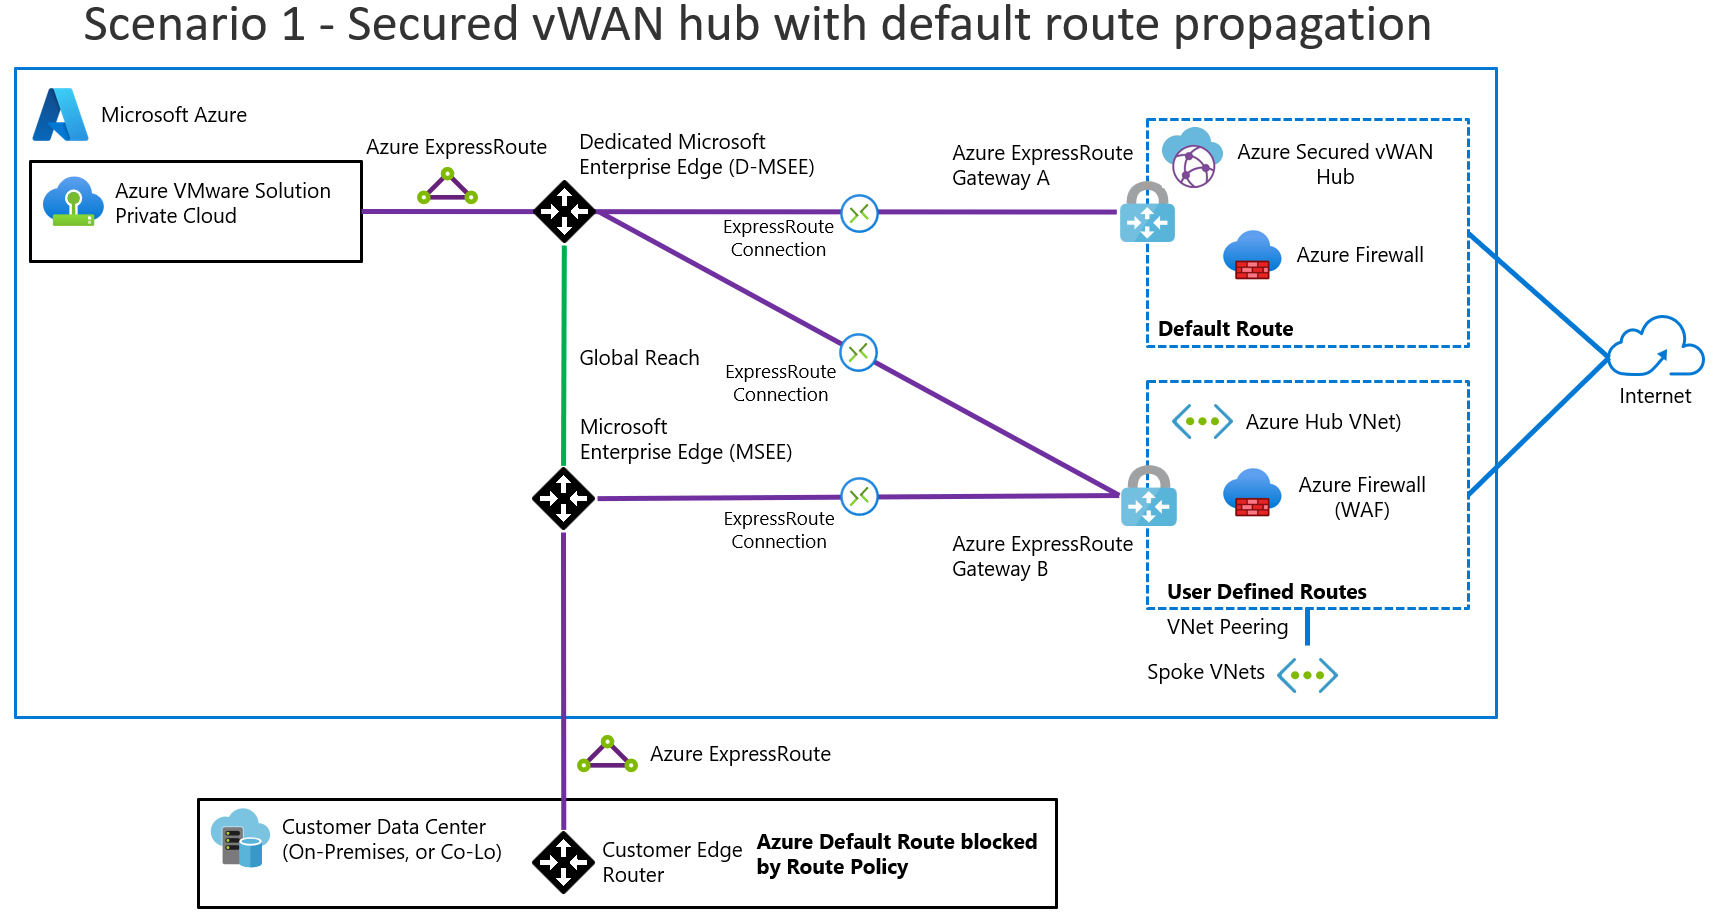
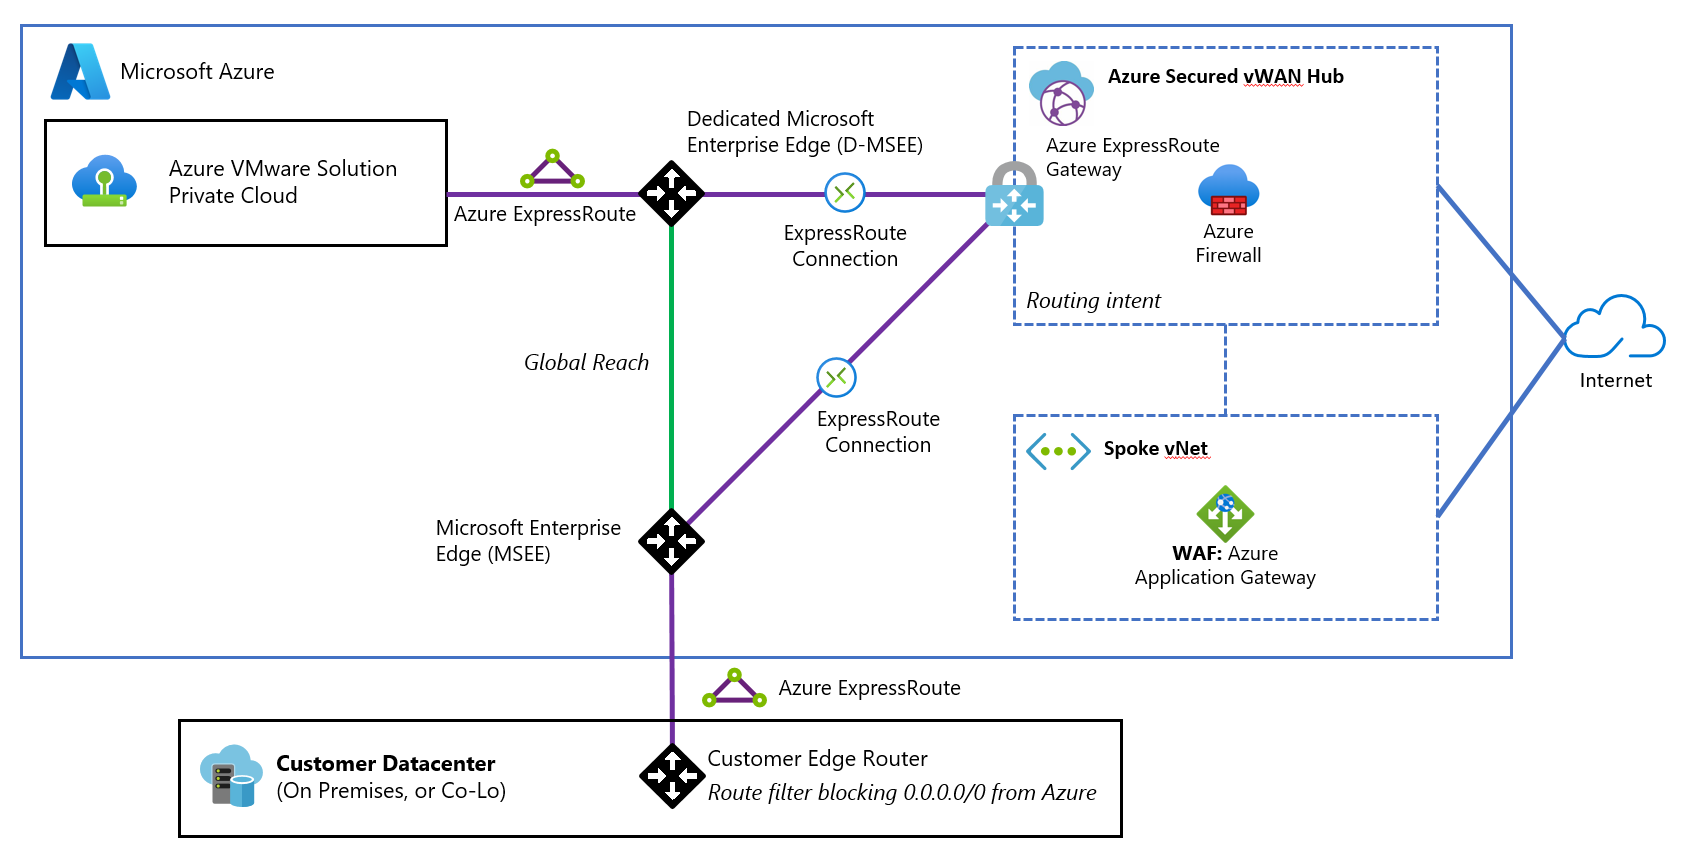
AVS: Review and simplification of example n°1

diff --git a/docs/scenarios/azure-vmware/example-architectures.md b/docs/scenarios/azure-vmware/example-architectures.md
@@ -2,8 +2,8 @@
 title: Enterprise-scale example architectures connectivity to Azure VMware Solution
 description: Examine example for scenarios for implementing networking and connectivity for Azure VMware Solution deployments.
 author: sablair
-ms.author: martinek
-ms.date: 10/27/2023
+ms.author: lrivallain
+ms.date: 11/25/2024
 ms.topic: conceptual
 ms.custom: think-tank, e2e-azure-vmware
 ---
@@ -11,18 +11,16 @@ ms.custom: think-tank, e2e-azure-vmware
 
 # Example architectures for **Azure VMware Solutions**
 
-
-
 To establish an Azure VMware Solution landing zone, you need to first design and implement networking capabilities. Azure networking products and services support a wide variety of networking scenarios. Choose an appropriate architecture and plan for structuring services for your needs by evaluating your organization's workloads, governance, and requirements.
 
 Review the following considerations and key requirements before making your Azure VMware Solution deployment decision.
 
-- HTTP/S or non-HTTP/S internet ingress requirements into Azure VMware Solution applications
+- Internet ingress requirements into Azure VMware Solution applications
 - Internet egress path considerations
-- L2 extension for migrations
-- NVA use in the current architecture
+- Network Layer-2 extension for migrations
+- Network Virtual Appliances (NVA) usage in the current architecture
 - Azure VMware Solution connectivity to either a standard hub virtual network or Virtual WAN hub
-- Private ExpressRoute connectivity from on-premises datacenters to Azure VMware Solution (and if you should enable ExpressRoute Global Reach or not)
+- ExpressRoute connectivity from on-premises datacenters to Azure VMware Solution (and if ExpressRoute Global Reach is suitable to be used or not)
 - Traffic inspection requirements for:
   - Internet ingress into Azure VMware Solution applications
   - Azure VMware Solution egress access to the internet
@@ -33,20 +31,20 @@ Review the following considerations and key requirements before making your Azur
 The following table uses VMware solution traffic inspection requirements to provide recommendations and considerations for the most common networking scenarios.
 
 | Scenario | Traffic inspection requirements | Recommended solution design | Considerations |
-|---|----|---|---|
-| 1 |  - Internet ingress <br> - Internet egress | Use a Virtual WAN secured hub with default gateway propagation. </br></br> For HTTP/S traffic, use Azure Application Gateway. For non-HTTP/S traffic, use Azure Firewall.</br></br> Deploy a secured Virtual WAN hub and enable public IP in Azure VMware Solution. | This solution doesn't work for on-premises filtering. Global Reach bypasses Virtual WAN hubs. |
-| 2 |  - Internet ingress <br> - Internet egress <br> - To on-premises datacenter <br> - To Azure Virtual Network| Use third-party firewall NVA solutions in your hub virtual network with Azure Route Server. </br></br> Disable Global Reach. </br></br> For HTTP/S traffic, use Azure Application Gateway. For non-HTTP/S traffic, use a third-party firewall NVA on Azure.| Choose this option if you want to use your existing NVA and centralize all traffic inspection in your hub virtual network. |
-| 3 | - Internet ingress <br> - Internet egress <br> - To on-premises datacenter <br> - To Azure Virtual Network <br> Within Azure VMware Solution <br>|   Use NSX-T Data Center or a third-party NVA firewall in Azure VMware Solution. </br></br>  Use Application Gateway for HTTPs, or Azure Firewall for non-HTTPs traffic. </br></br> Deploy the secured Virtual WAN hub and enable public IP in Azure VMware Solution.| Choose this option if you need to inspect traffic from two or more Azure VMware Solution private clouds. </br></br> This option lets you use NSX-T native features. You can also combine this option with NVAs running on Azure VMware Solution between L1 and L0. |
-| 4 | - Internet ingress <br> - Internet egress </br> - To on-premises datacenter </br> - To Azure Virtual Network   | </br>  Use third-party firewall solutions in a hub virtual network with Azure Route Server. </br></br> For HTTP & HTTPS traffic, use Azure Application Gateway. For non-HTTP/HTTPS traffic, use a third-party firewall NVA on Azure. </br></br> Use an on-premises third-party firewall NVA. </br></br> Deploy third-party firewall solutions in a hub virtual network with Azure Route Server. | Choose this option to advertise the `0.0.0.0/0` route from an NVA in your Azure hub virtual network to an Azure VMware Solution.|
+|----------|---------------------------------|-----------------------------|----------------|
+| 1        | <ul><li>Internet ingress</li><li>Internet egress</li></ul> | <ul><li>Use a Virtual WAN secured hub with default gateway propagation.</li><li> For HTTP/S traffic, use Azure Application Gateway. For non-HTTP/S traffic, use Azure Firewall.</li><li> Deploy a secured Virtual WAN hub with routing intent. | Use of Global Reach is not effective for on-premises filtering, as it bypasses the Virtual WAN hubs.</li></ul> |
+| 2        | <ul><li>Internet ingress</li><li>Internet egress</li><li>To on-premises datacenter</li><li>To Azure Virtual Network</li></ul> | <ul><li>Use third-party firewall NVA solutions in your hub virtual network with Azure Route Server.</li><li>Ensure not using Global Reach.</li><li>For HTTP/S traffic, use Azure Application Gateway. For non-HTTP/S traffic, use a third-party firewall NVA on Azure.</li></ul> | Choose this option if you want to use your existing NVA and centralize all traffic inspection in your hub virtual network. |
+| 3        | <ul><li>Internet ingress</li><li>Internet egress</li><li>To on-premises datacenter</li><li>To Azure Virtual Network</li><li>Within Azure VMware Solution</li></ul>|<ul><li>Use NSX-T Data Center or a third-party NVA firewall in Azure VMware Solution. </li><li> Use Application Gateway for HTTPs, or Azure Firewall for non-HTTPs traffic. </li><li> Deploy the secured Virtual WAN hub and enable public IP in Azure VMware Solution.</li></ul>| Choose this option if you need to inspect traffic from two or more Azure VMware Solution private clouds. <br><br> This option lets you use NSX-T native features. You can also combine this option with NVAs running on Azure VMware Solution. |
+| 4       | <ul><li>Internet ingress</li><li>Internet egress</li><li>To on-premises datacenter</li><li>To Azure Virtual Network</li></ul>| <ul><li>Use third-party firewall solutions in a hub virtual network with Azure Route Server. </li><li> For HTTP & HTTPS traffic, use Azure Application Gateway. For non-HTTP/HTTPS traffic, use a third-party firewall NVA on Azure. </li><li> Use an on-premises third-party firewall NVA. </li><li> Deploy third-party firewall solutions in a hub virtual network with Azure Route Server. </li></ul>| Choose this option to advertise the `0.0.0.0/0` route from an NVA in your Azure hub virtual network to an Azure VMware Solution.|
 
 Key points about the networking scenarios:
 - All scenarios have similar ingress patterns via Application Gateway and Azure Firewall.
-- You can use L4-L7 load balancer NVAs in Azure VMware Solution.
+- You can use L4-L7 load balancer solutions in Azure VMware Solution.
 - You can use NSX-T Data Center Firewall for any of these scenarios.
 
 The following sections outline architectural patterns for Azure VMware Solution private clouds. This list is not exhaustive. For more information, see [Azure VMware Solution networking and interconnectivity concepts](/azure/azure-vmware/concepts-networking).
 
-## Secured Virtual WAN hub with default route propagation
+## Secured Virtual WAN hub with routing intent
 
 This scenario involves the following customer profile, architectural components, and considerations.
 
@@ -54,11 +52,15 @@ This scenario involves the following customer profile, architectural components,
 
 This scenario is ideal if:
 
-- You don't need traffic inspection between Azure VMware Solution and Azure Virtual Network.
-- You don't need traffic inspection between Azure VMware Solution and on-premises datacenters.
+- You don't require traffic inspection between Azure VMware Solution and on-premises datacenters.
 - You need traffic inspection between Azure VMware Solution workloads and the internet.
+- You need to secure public ingress traffic to Azure VMware Solution workloads.
 
-For this scenario, consume Azure VMware Solution like a platform as a service (PaaS) offering. In this scenario, you don't own the public IP addresses. Add public-facing L4 and L7 inbound services if needed. You might or might not already have ExpressRoute connectivity between on-premises datacenters and Azure.
+Other considerations include:
+
+* In this scenario, you can own the public IP addresses: see [Custom IP address prefix (BYOIP)](/azure/virtual-network/ip-services/custom-ip-address-prefix).
+* Add public-facing L4 and/or L7 inbound services if needed.
+* You might or might not already have ExpressRoute connectivity between on-premises datacenters and Azure.
 
 ### High level overview
 
@@ -71,7 +73,7 @@ The following diagram provides a high-level overview of the scenario.
 Implement this scenario with:
 
 - Azure Firewall in a secured Virtual WAN hub for firewalls
-- Application Gateway for L7 load balancing
+- Application Gateway for L7 load balancing and Web Application Firewall (WAF)
 - L4 destination network address translation (DNAT) with Azure Firewall to translate and filter network ingress traffic
 - Outbound internet via Azure Firewall in your Virtual WAN hub
 - EXR, VPN, or SD-WAN for connectivity between on-premises datacenters and Azure VMware Solution
@@ -80,11 +82,7 @@ Implement this scenario with:
 
 ### Considerations
 
-If you don't want to receive the default route `0.0.0.0/0` advertisement from Azure VMware Solution because it conflicts with your existing environment, you need to do some extra work.
-
 Azure Firewall in a secured Virtual WAN hub advertises the `0.0.0.0/0` route to Azure VMware Solution. This route is also advertised on-premises through Global Reach. Implement an on-premises route filter to prevent `0.0.0.0/0` route learning. Avoid this issue by using SD-WAN or VPN.
-
-If you currently connect to a virtual network-based hub-and-spoke topology through an ExpressRoute gateway instead of connecting directly, the default `0.0.0.0/0` route from the Virtual WAN hub propagates to that gateway and takes precedence over the internet system route built into your virtual network. Avoid this issue by implementing a `0.0.0.0/0` [user-defined route](/azure/virtual-network/virtual-networks-udr-overview#user-defined) in your virtual network to override the learned default route.
 
 Established VPN, ExpressRoute, or virtual network connections to a secure Virtual WAN hub that don't require `0.0.0.0/0` advertisement receive the advertisement anyway. To prevent this, you can either:
 
@@ -95,7 +93,14 @@ Established VPN, ExpressRoute, or virtual network connections to a secure Virtua
   3. Disable `0.0.0.0/0` propagation on those specific connections.
   4. Reconnect those connections.
 
-You can host Application Gateway on a spoke virtual network connected to your hub or on the hub virtual network.
+You can host Application Gateway on a spoke virtual network connected to your vWAN hub.
+
+### Enable AVS to On-Premises traffic inspection with Azure Firewall
+
+To enable Azure VMware Solution to on-premises traffic inspection with Azure Firewall, you must configure the following:
+
+1. Remove Global Reach connection between Azure VMware Solution and on-premises.
+1. Open a support case with Microsoft Support [to enable ExpressRoute to ExpressRoute transit connectivity via a Firewall appliance in the hub with private routing policies](/azure/virtual-wan/how-to-routing-policies#expressroute).
 
 ## Network Virtual Appliance in Azure Virtual Network to inspect all network traffic
 
